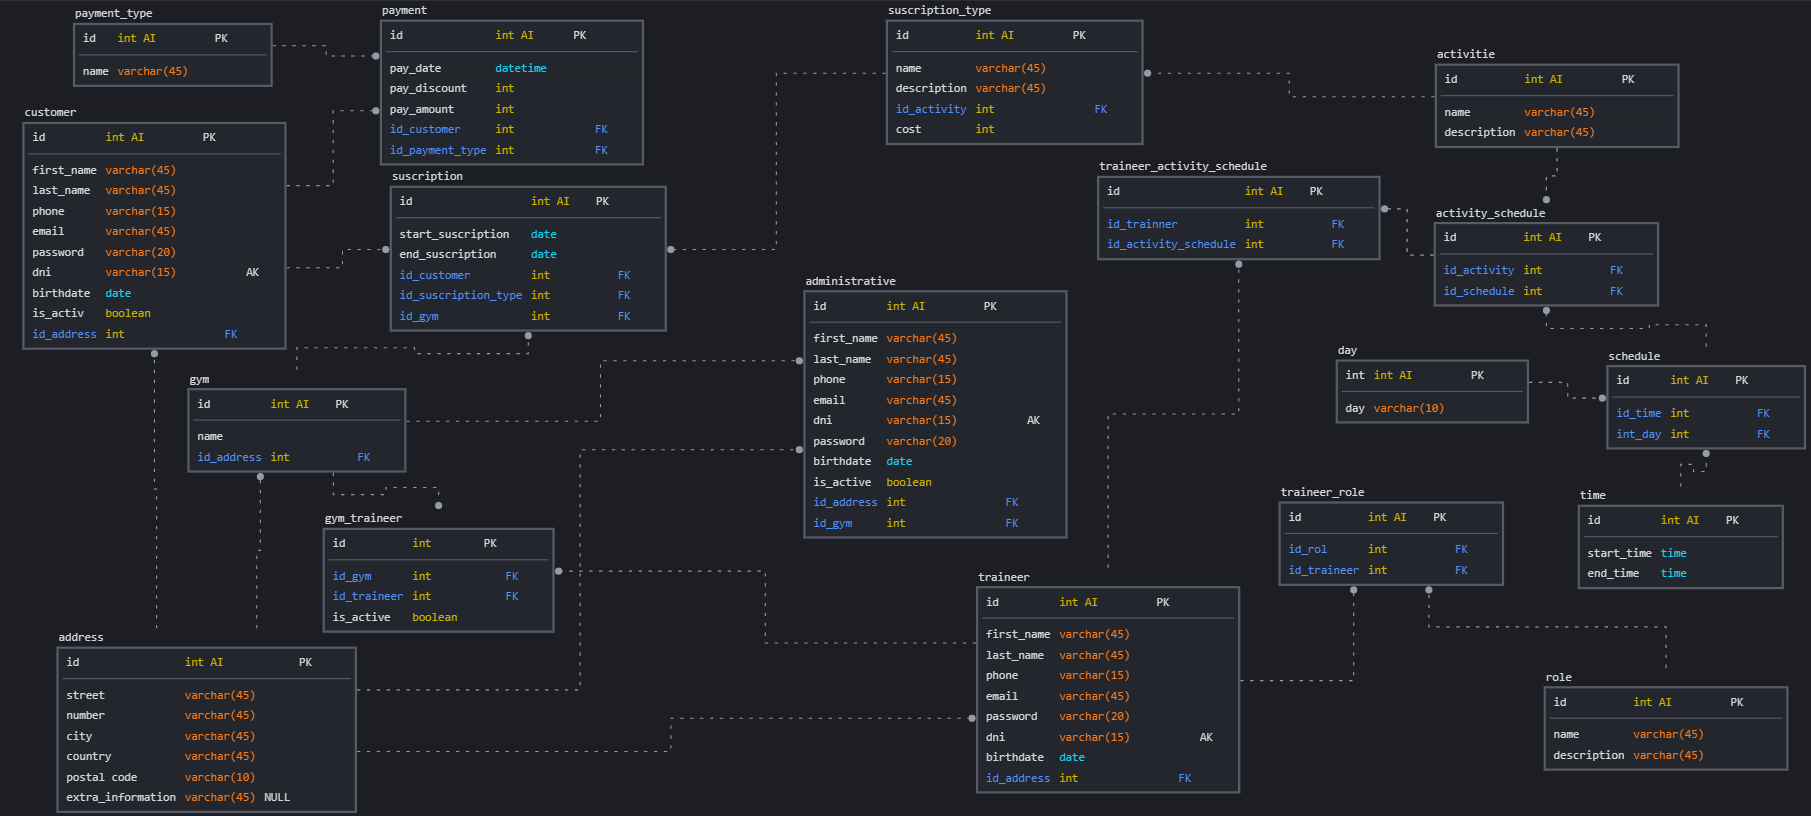
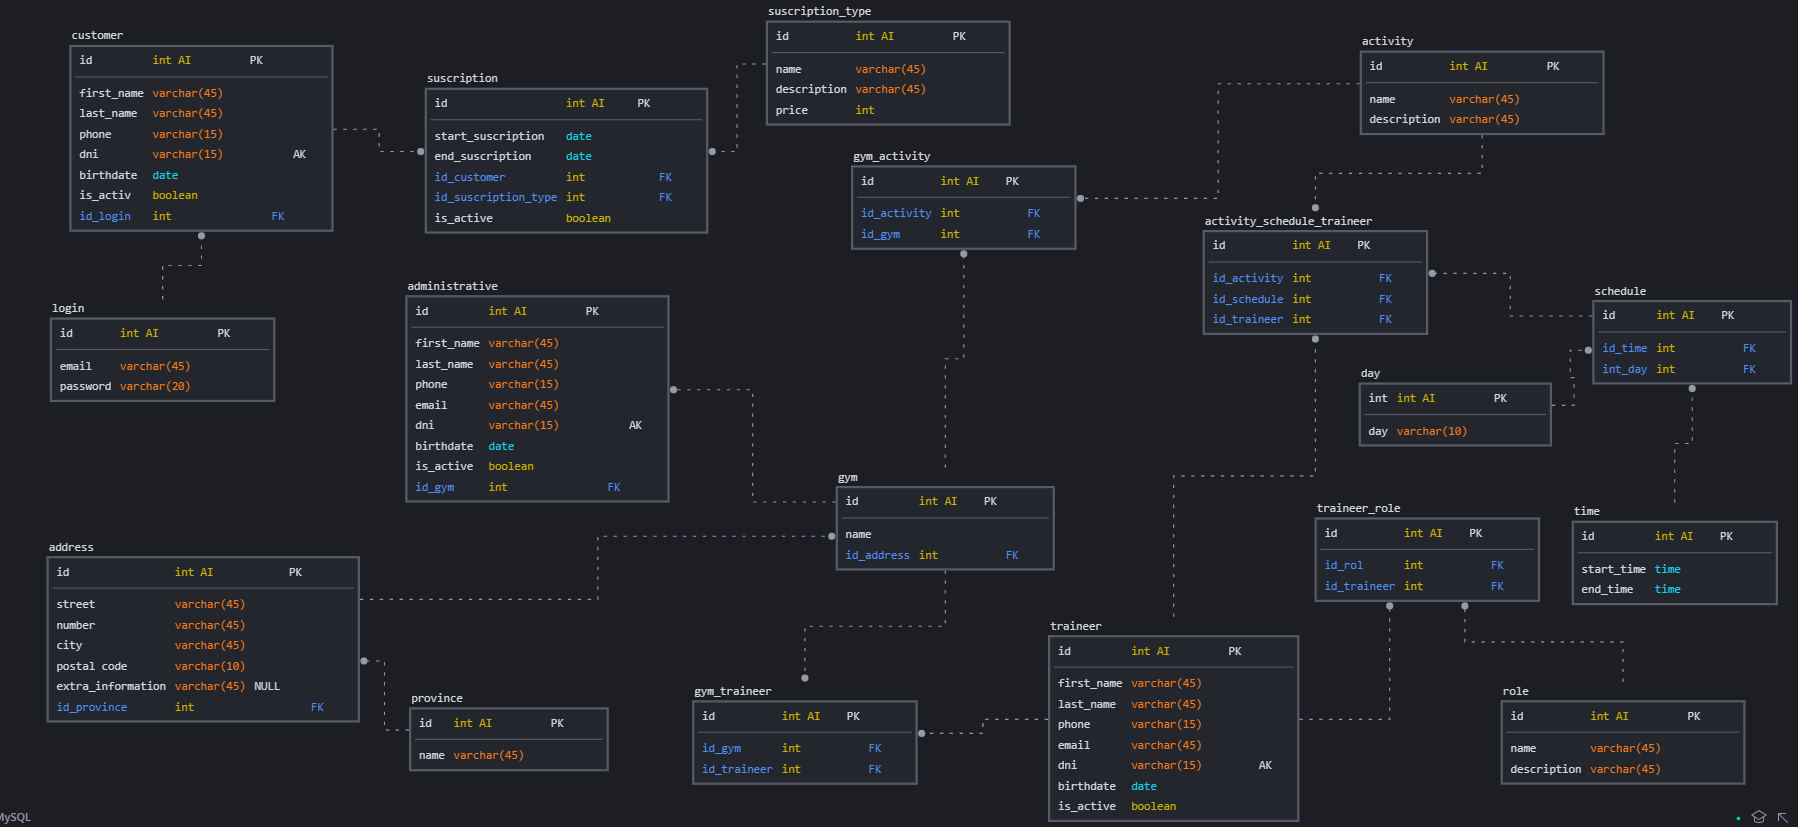
edito Gym DB

diff --git a/Gym/gym.md b/Gym/gym.md
@@ -2,33 +2,33 @@
 
 ## Business Plan
 
-1. The business system consists of controlling the classes and activities to which a user registers through a web page and from a mobile App. The client with his ID registers in the account (this data is unique) and provides a password, in order to manage his account.
-1. In the gym there are scheduled hours and classes. But for the bodybuilding sector it is free to access at any time.
-1. There will be teachers, who can be assigned to many activities depending on how qualified they are and their schedule and work in many gyms.
-1. Classes will be defined on a specific day and time.
-1. There will be different types of subscriptions which, depending on the subscription, will allow bodybuilding as a base and add one or more extra activities to the subscription.
-1. Form of payment: if the amount is equivalent to 3, 6 months or 1 year, a discount will be applied.
-1. If the client does not pay for the month, he will cease to be active.
-1. If the traineer gets sick and leaves, he will be inactive until he recovers.
+1. Sistema exclusivo para el uso en Argentina.
+1. Gestión de red de gimnasios exclusivos para la gente registrada.
+1. Los clientes tienen entrada a todos los gimnasios con todas sus actividades.
+1. Se ofrecen 4 tipos de suscripciones: mensual, trimestral, semestral y anual.
+1. Cada gimnasio tendrá su personal administrativo.
+1. Los entrenadores podran trabajar en tantos gimansios como quieran.
+1. Cada actividad contará con un horario y un profesor asociado.
+1. Si el cliente deja de abonar su suscripción no tendrá acceso a la red de gimnasios.
+
 
 
 ## Entity Relationship
 
-1. Many **activities** have many **schedules** (_M_M_)
 1. A **schedule** have many **days** (_1_M_)
 1. A **schedule** have many **times** (_1_M_)
-1. A **customer** have one **adresse** (_1_1_)
-1. A **customer** make many **payments** (_1_M_)
 1. A **customer** make one **suscription** (_1_1_)
-1. A **traineer** have one **adresse** (_1_1_)
-1. A **traineer** have many **activity_schedule** (_M_M_)
+1. Many **traineers** have many **schedule** and many **activities** (_M_M_)
 1. Many **traineer** have many **roles** (_M_M_)
 1. Many **gyms** have many **traineers** (_M_M_)
 1. A **gym** have one **address** (_1_1_)
+1. A **address** have one **provinces** (_1_1_)
 1. A **gym** have many **administratives** (_1_M_)
 1. A **suscription** have one **suscription_type** (_1_1_)
 1. A **suscription** have one **customer** (_1_1_)
-1. A **suscription** many **gyms** (_1_1_)
+1. A **customer** have one **login** (_1_1_)
+
+
 
 ## Entity Relationship Diagram
 
